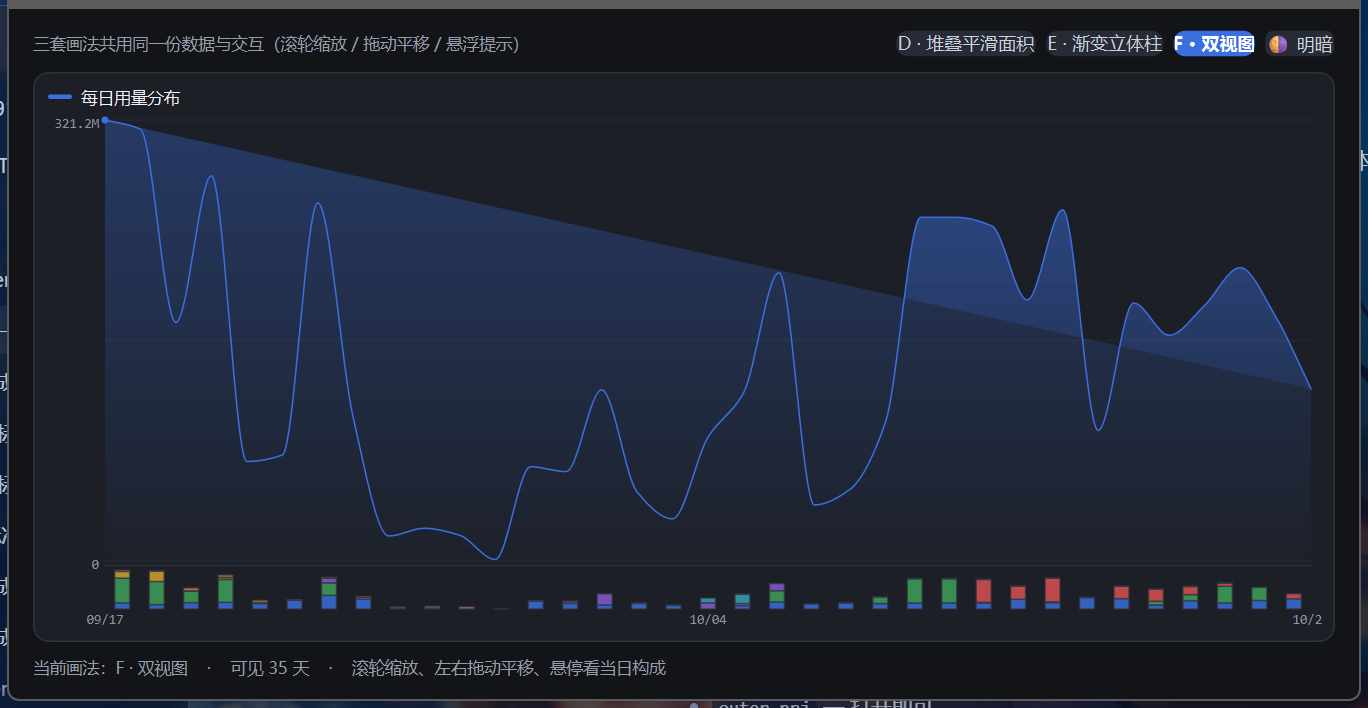
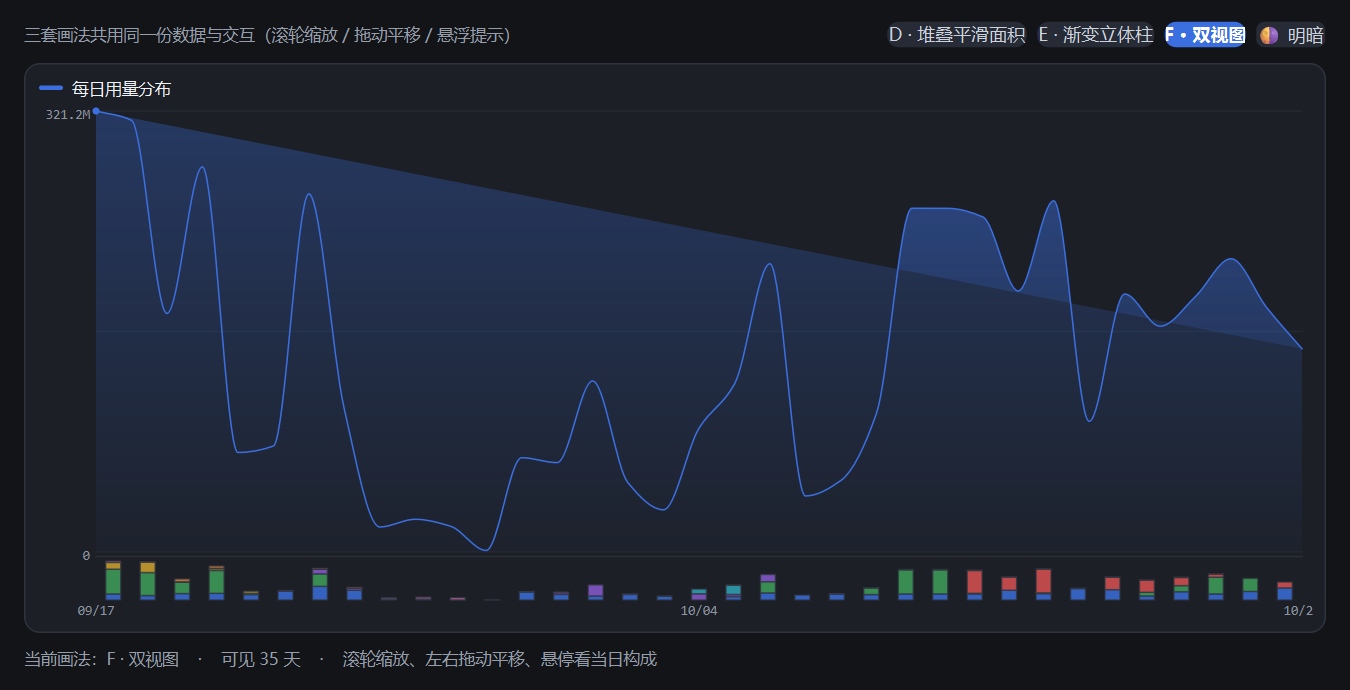
第97轮后半10: 每日用量分布定稿方案 E（清爽渐变柱）+ 同源可切换 demo 完善
浅猫最终选定方案 E（D 弃用、F 不再投入），并按她要求迭代:
  · 暗色版: 本色 → 本色混白 40%(WHITE_K=0.40) —— "往下慢慢变淡、取白色渐变"。
    深色卡片上同色淡出会往深底融、反差太小看不出来; 向白渐变后柱子像被
    顶部光源照亮、向下渐渐化开, 一眼可辨。
  · 浅色版: 保持同色淡出(245→110)不变。
  · 渐变范围用**整根柱**(柱顶→柱底)而非每段自身高度 —— 整根柱方向统一,
    段与段之间只剩色相差、没有透明度断层(否则每段各自淡出会出现"接缝")。
  · 去掉早期版本的"立体光影"(顶亮底暗 + 左侧白色高光条), 浅猫定调"不要立体感"。

demo 完善(tools/demo_chart_v2.py):
  · --shot 改用 w.grab() 抓窗口本身, 不再抓整屏裁剪(会抓到挡在前面的其它窗口);
  · 截图范围收敛为 E/F 两套(D 已弃用)。

三套画法仍在 StackedBarChart 里可切换(stack_area/glass_bar/dual), 数据/配色/
几何/交互全共用; 定稿的是 glass_bar, 仍是 CHART_MODE_DEFAULT, 未擅自改默认。

验证: 回归 482 全绿; check_material_btn 11 项; check_settings97 13 项;
offscreen 渲染 + 像素采样确认渐变方向正确(绿色段 (94,177,117)→(157,204,170))。

diff --git a/card_app.py b/card_app.py
@@ -2355,13 +2355,25 @@ class StackedBarChart(QWidget):
         p.drawEllipse(QPointF(px_, padT + ih - cum[pi] / maxV * ih), 2.6, 2.6)
         self._dates(p, padL, iw, h, padB, self.data)
 
-    # ---- 方案 E: 渐变立体柱 + 光影 ----
+    # ---- 方案 E: 清爽渐变柱(第97轮后半7 重做) ----
     def _paint_glass_bar(self, p, w, h, padL, padR, padT, padB, iw, ih):
+        """浅猫定调: 不要立体感、要清爽。
+
+        每根柱一个**整根柱范围**的渐变, 顶实底虚、无高光条; 柱顶小圆角保留。
+          · 暗色: 本色 → 本色混白 40%(往下变淡、向白色渐变 —— 第97轮后半10 浅猫要求);
+          · 浅色: 本色 → 同色淡出(245→110, 保持不变)。
+        """
         n = len(self.data)
         maxV = max((sum(v for _, _, v in d["parts"]) for d in self.data), default=1) or 1
         slot = iw / n
-        bw = max(3.0, min(16.0, slot * 0.62))
-        pi = self._peak_index()
+        bw = max(3.0, min(16.0, slot * 0.66))
+        dark = bool(theme_state.get("dark"))
+        # 第97轮后半10(浅猫: "暗色版本改成往下慢慢变淡但是取白色渐变"):
+        #  暗色卡片上"同色变淡"= 往深底融, 反差小看不出来 → 改成**向白色渐变**
+        #  (本色 → 本色混白 40%), 柱子像被顶部光源照亮、向下渐渐化开;
+        #  浅色版**保持不变**: 同色淡出(245→110), 浅底上已经很清晰。
+        #  渐变范围仍是**整根柱**(柱顶→柱底), 保证整根柱方向统一、段间无透明度断层。
+        WHITE_K = 0.40
 
         self._grid(p, w, padL, padR, padT, ih, k=3, alpha=0.5)
         self._axis_labels(p, padT, padB, ih, maxV)
@@ -2369,15 +2381,25 @@ class StackedBarChart(QWidget):
         for i, d in enumerate(self.data):
             cx = padL + slot * i + slot / 2
             y_cur = padT + ih
-            segs = d["parts"]
-            for j, (_m, color, v) in enumerate(segs):
+            total = sum(v for _, _, v in d["parts"])
+            col_top = padT + ih - total / maxV * ih      # 整根柱的柱顶
+            for j, (_m, color, v) in enumerate(d["parts"]):
                 hh = v / maxV * ih
                 top = y_cur - hh
                 x0 = cx - bw / 2
-                g = QLinearGradient(0, top, 0, y_cur)
-                g.setColorAt(0, color.lighter(126))
-                g.setColorAt(0.55, color)
-                g.setColorAt(1, color.darker(116))
+                # 渐变范围 = 整根柱(各段在自己高度区间内取渐变的一部分)
+                g = QLinearGradient(0, col_top, 0, padT + ih)
+                if dark:
+                    # 暗色: 本色 → 本色混白(往下变淡、向白色渐变)
+                    g.setColorAt(0.0, QColor(color.red(), color.green(), color.blue(), 255))
+                    g.setColorAt(1.0, QColor(
+                        int(color.red() + (255 - color.red()) * WHITE_K),
+                        int(color.green() + (255 - color.green()) * WHITE_K),
+                        int(color.blue() + (255 - color.blue()) * WHITE_K), 255))
+                else:
+                    # 浅色: 同色淡出(保持原样)
+                    g.setColorAt(0.0, QColor(color.red(), color.green(), color.blue(), 245))
+                    g.setColorAt(1.0, QColor(color.red(), color.green(), color.blue(), 110))
                 p.setPen(Qt.NoPen)
                 p.setBrush(g)
                 if j == 0 and hh > 2:
@@ -2394,17 +2416,7 @@ class StackedBarChart(QWidget):
                     p.drawPath(path)
                 else:
                     p.drawRect(QRectF(x0, top, bw, hh))
-                # 左侧 1px 高光: 模拟来自左上方的光, 让扁柱有轻微立体感
-                if hh > 3:
-                    hl = QColor(255, 255, 255, 42)
-                    p.setBrush(hl)
-                    p.drawRect(QRectF(x0, top + 1, 1, hh - 2))
                 y_cur = top
-            if i == pi and hh > 0:
-                p.setPen(Qt.NoPen)
-                p.setBrush(TEXT2)
-                p.drawEllipse(QPointF(cx, padT + ih - sum(v for _, _, v in d["parts"])
-                                      / maxV * ih - 5), 1.8, 1.8)
         self._dates(p, padL, iw, h, padB, self.data)
 
     # ---- 方案 F: 双视图(上趋势面积 + 下构成带) ----
@@ -2423,20 +2435,22 @@ class StackedBarChart(QWidget):
         self._grid(p, w, padL, padR, padT, area_ih, k=3, alpha=0.4)
         self._axis_labels(p, padT, padB, area_ih, maxV)
 
-        # 上: 总量平滑面积(单色渐变)
+        # 上: 总量平滑面积 —— 第97轮后半8(浅猫: "渐变遮罩加回来, 遮罩范围扩大一点")
+        # ⭐ 直接沿用**顶部指标区那条迷你趋势线**的做法(第72轮, 她认可的效果):
+        #   · 渐变用 QColor(r,g,b,alpha) 显式构造, 顶端 alpha 82 → 底端 0;
+        #   · **遮罩范围是整个绘图区 ih**(不只是上区 area_ih) —— 范围一大,
+        #     深浅过渡就被"拉平"了, 斜向分界的对比度大幅降低(这正是她要的观感)。
         pts = [(xs[i], padT + area_ih - totals[i] / maxV * area_ih) for i in range(n)]
         line = _monotone_path(pts)
         area = QPainterPath(line)
         area.lineTo(xs[-1], padT + area_ih)
         area.lineTo(xs[0], padT + area_ih)
         area.closeSubpath()
-        g = QLinearGradient(0, padT, 0, padT + area_ih)
-        a0 = QColor(BLUE); a0.setAlphaF(a0.alphaF() * 0.34)
-        a1 = QColor(BLUE); a1.setAlphaF(a1.alphaF() * 0.02)
-        g.setColorAt(0, a0)
-        g.setColorAt(1, a1)
+        fade = QLinearGradient(0, padT, 0, padT + ih)
+        fade.setColorAt(0.0, QColor(BLUE.red(), BLUE.green(), BLUE.blue(), 82))
+        fade.setColorAt(1.0, QColor(BLUE.red(), BLUE.green(), BLUE.blue(), 0))
         p.setPen(Qt.NoPen)
-        p.setBrush(g)
+        p.setBrush(QBrush(fade))
         p.drawPath(area)
         pen = QPen(BLUE, 1.5)
         pen.setCosmetic(True)

diff --git a/tools/demo_chart_v2.py b/tools/demo_chart_v2.py
@@ -161,35 +161,26 @@ def main():
 
     if "--shot" in sys.argv:
         from PySide6.QtTest import QTest
-        scr = QGuiApplication.primaryScreen()
         out = os.path.join(ROOT, "docs", "screenshots")
         os.makedirs(out, exist_ok=True)
         QTest.qWait(700)
         ca.ChartTip.instance().hide_tip()      # 防止截图时鼠标恰好停在图上带出悬浮框
-        for m in ca.CHART_MODES:
+        # 用 w.grab() 抓窗口本身 —— 不受桌面遮挡/多屏/其它窗口影响(抓屏+裁剪会抓到挡在前面的窗口)
+        for m in ("glass_bar", "dual"):
             w.set_mode(m)
             QTest.qWait(500)
-            img = scr.grabWindow(0).toImage()
-            r = img.width() / float(scr.geometry().width())
-            g = w.geometry()
-            pad = 6
-            crop = img.copy(int((g.x() - pad) * r), int((g.y() - pad) * r),
-                            int((g.width() + pad * 2) * r), int((g.height() + pad * 2) * r))
+            pix = w.grab()
             p = os.path.join(out, "demo_chart_%s.png" % m)
-            crop.save(p)
-            print("saved", p, crop.width(), "x", crop.height(), flush=True)
-        # 浅色版(D 方案)
-        w.set_mode("stack_area")
+            pix.save(p)
+            print("saved", p, pix.width(), "x", pix.height(), flush=True)
+        # 浅色版(E 方案)
+        w.set_mode("glass_bar")
         w.dark = False
         w.apply_theme()
         QTest.qWait(500)
-        img = scr.grabWindow(0).toImage()
-        r = img.width() / float(scr.geometry().width())
-        g = w.geometry()
-        crop = img.copy(int((g.x() - 6) * r), int((g.y() - 6) * r),
-                        int((g.width() + 12) * r), int((g.height() + 12) * r))
-        p = os.path.join(out, "demo_chart_stack_area_light.png")
-        crop.save(p)
+        pix = w.grab()
+        p = os.path.join(out, "demo_chart_glass_bar_light.png")
+        pix.save(p)
         print("saved", p, flush=True)
         w.dark = True
         w.apply_theme()
